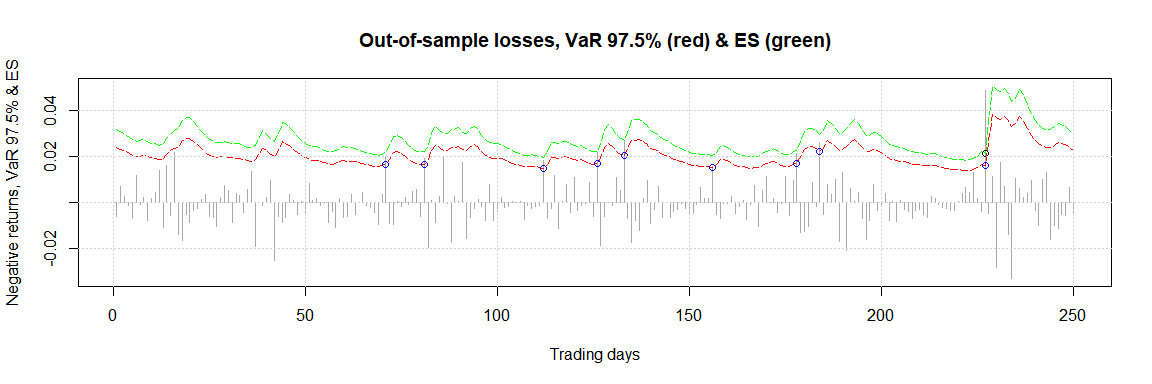
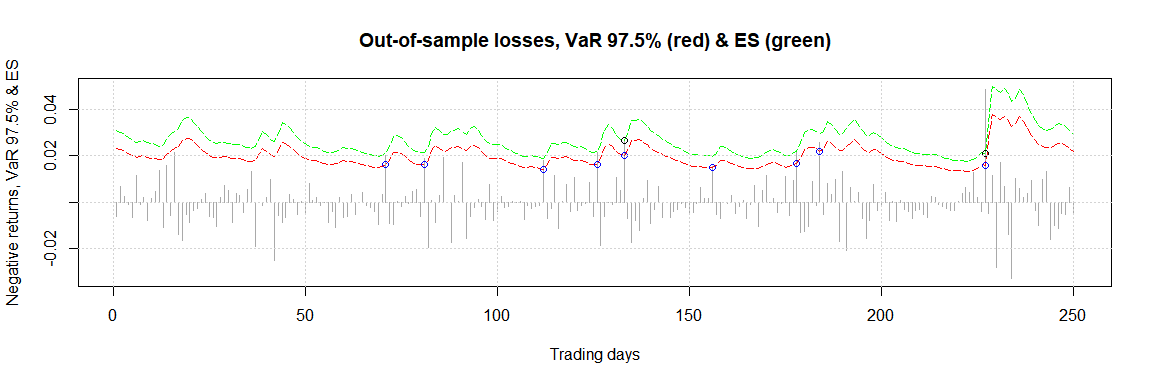
version 1.0.5

diff --git a/README.md b/README.md
@@ -35,10 +35,13 @@ install.packages("ufRisk")
 The data set `ESTX`, which is implemented in the `ufRisk` package,
 contains daily financial data of the EURO STOXX 50 (ESTX) index from
 April 2007 to December 2021. In the following an example of the
-(out-of-sample) one-step forecasts of the 97.5%-VaR (red line) and the
-corresponding ES (green line) as well as the 99%-VaR (green line), which
-are obtained by employing a FIGARCH model to the `ESTX` return series,
-are illustrated. Exceedances are indicated by the colored circles.
+(out-of-sample) one-step forecasts of the
+97.5![\\%](https://latex.codecogs.com/png.image?%5Cdpi%7B110%7D&space;%5Cbg_white&space;%5C%25 "\%")-VaR
+(red line) and the corresponding ES (green line) as well as the
+99![\\%](https://latex.codecogs.com/png.image?%5Cdpi%7B110%7D&space;%5Cbg_white&space;%5C%25 "\%")-VaR
+(green line), which are obtained by employing a FIGARCH model to the
+`ESTX` return series, are illustrated. Exceedances are indicated by the
+colored circles.
 
 ``` r
 # Applying the FIGARCH model to the ESTX return series
@@ -95,19 +98,19 @@ trafftest(results)
 #>  Red zone:    p >= 99.99%      
 #>  
 #> # Test 1: 99%-VaR #
-#>  Number of violations: 3
-#>  p = 0.7581: Green zone
+#>  Number of violations: 4
+#>  p = 0.8922: Green zone
 #>  
 #> # Test 2: 97.5%-VaR #
 #>  Number of violations: 9
 #>  p = 0.9005: Green zone
 #>  
 #> # Test 3: 97.5%-ES #
-#>  Number of weighted violations: 4.7459
-#>  p = 0.8715: Green zone
+#>  Number of weighted violations: 5.1227
+#>  p = 0.9188: Green zone
 #>  
 #> # Weighted Absolute Deviation #
-#>  WAD = 1.1587
+#>  WAD = 1.6793
 ```
 
 ------------------------------------------------------------------------
@@ -125,17 +128,21 @@ covtest(results)
 #> # Unconditional coverage test #
 #>  
 #> H0: w = 0.99
-#> p_[uc] = 0.753
+#> p_[uc] = 0.3805
+#> Decision: Fail to reject H0
 #>  
 #> # Independence test #
 #>  
-#> H0: w_[00] = w[10]
-#> p_[ind] = 0.7868
+#> H0: w_[00] = w_[10]
+#> p_[ind] = 0.6865
+#> Decision: Fail to reject H0
 #>  
 #> # Conditional coverage test #
 #>  
 #> H0: w_[00] = w_[10] = 0.99
-#> p_[cc] = 0.9175
+#> p_[cc] = 0.6275
+#> Decision: Fail to reject H0
+#> 
 ```
 
 ------------------------------------------------------------------------
@@ -147,16 +154,16 @@ lossfunc(results)
 #> Please note that the following results are multiplied with 10000.
 #> 
 #> $lossfunc1
-#> [1] 7.411243
+#> [1] 7.693316
 #> 
 #> $lossfunc2
-#> [1] 14.1705
+#> [1] 14.31244
 #> 
 #> $lossfunc3
-#> [1] 14.39198
+#> [1] 14.56085
 #> 
 #> $lossfunc4
-#> [1] 13.44642
+#> [1] 13.61529
 ```
 
 ------------------------------------------------------------------------

diff --git a/NEWS.md b/NEWS.md
@@ -1,3 +1,7 @@
+# ufRisk 1.0.5
+
+* fixed a minor bug in 'covtest()'
+
 # ufRisk 1.0.4
 
 * added the option to choose between normal- and t-distribution (via the 
